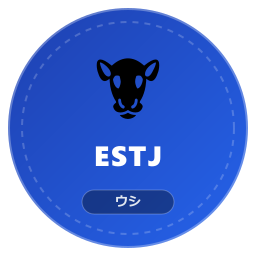
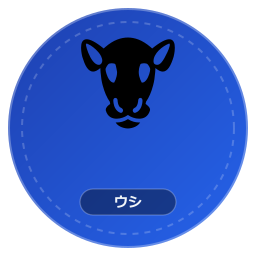
style: 動物アイコンからタイプ名を削除し絵文字を拡大配置

Changed region(s): [[0.3125, 0.125, 0.6875, 0.5], [0.3125, 0.7188, 0.6875, 0.8438], [0.3438, 0.5625, 0.6562, 0.6562]]

diff --git a/scripts/generate-animal-icons.js b/scripts/generate-animal-icons.js
@@ -41,20 +41,15 @@ async function generate() {
         <!-- Inner Decorative Ring -->
         <circle cx="128" cy="128" r="106" fill="none" stroke="rgba(255,255,255,0.2)" stroke-width="2" stroke-dasharray="6 6" />
         
-        <!-- Emoji Icon -->
-        <text x="128" y="112" font-size="64" text-anchor="middle" dominant-baseline="central">
+        <!-- Large Animal Emoji Icon (タイプ名は完全削除し、中央の絵文字を拡大) -->
+        <text x="128" y="118" font-size="96" text-anchor="middle" dominant-baseline="central">
           ${item.emoji}
         </text>
         
-        <!-- Type Code -->
-        <text x="128" y="166" font-family="ui-sans-serif, system-ui, -apple-system, BlinkMacSystemFont, 'Segoe UI', Roboto, sans-serif" font-size="28" font-weight="900" fill="#FFFFFF" text-anchor="middle" letter-spacing="1.5">
-          ${item.type}
-        </text>
-        
-        <!-- Animal Label Badge -->
+        <!-- Animal Label Badge (下部の動物名ラベルを維持) -->
         <g transform="translate(128, 202)">
-          <rect x="-46" y="-12" width="92" height="24" rx="12" fill="rgba(0,0,0,0.35)" stroke="rgba(255,255,255,0.25)" stroke-width="1" />
-          <text x="0" y="4" font-family="'Hiragino Sans', 'Meiryo', 'Yu Gothic', sans-serif" font-size="13" font-weight="bold" fill="#E2E8F0" text-anchor="middle">
+          <rect x="-48" y="-13" width="96" height="26" rx="13" fill="rgba(0,0,0,0.38)" stroke="rgba(255,255,255,0.25)" stroke-width="1.2" />
+          <text x="0" y="5" font-family="'Hiragino Sans', 'Meiryo', 'Yu Gothic', sans-serif" font-size="14" font-weight="bold" fill="#F1F5F9" text-anchor="middle">
             ${item.label}
           </text>
         </g>
@@ -68,7 +63,7 @@ async function generate() {
 }
 
 generate()
-  .then(() => console.log('Successfully generated all 16 animal icon images!'))
+  .then(() => console.log('Successfully regenerated all 16 animal icon images!'))
   .catch((err) => {
     console.error('Error generating animal icons:', err);
     process.exit(1);
